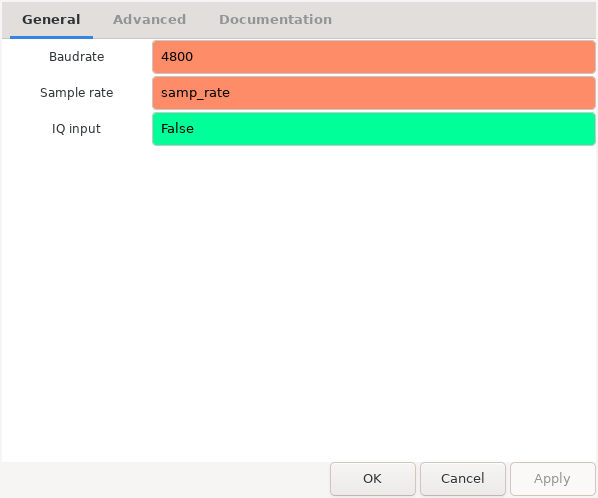
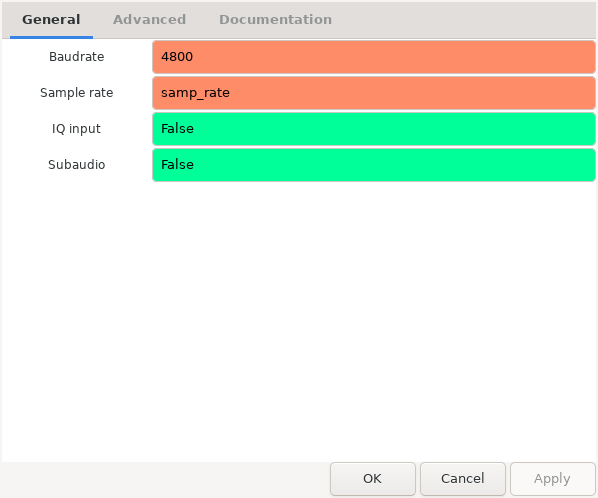
Add subaudio demodulation for LilacSat-2

Changed region(s): [[0.2408, 0.2711, 1.0, 0.3916], [0.0903, 0.3012, 0.1806, 0.3614]]

diff --git a/python/components/demodulators/fsk_demodulator.py b/python/components/demodulators/fsk_demodulator.py
@@ -30,10 +30,12 @@ class fsk_demodulator(gr.hier_block2, options_block):
         sample_rate: Sample rate in samples per second (float)
         iq: Whether the input is IQ or real (bool)
         deviation: Deviation in Hz, negative inverts sidebands (float)
+        subaudio: Use subaudio demodulation (bool)
         dump_path: Path to dump internal signals to files (str)
         options: Options from argparse
     """
-    def __init__(self, baudrate, samp_rate, iq, deviation = None, dump_path = None, options = None):
+    def __init__(self, baudrate, samp_rate, iq, deviation = None, subaudio = False,
+                     dump_path = None, options = None):
         gr.hier_block2.__init__(self, "fsk_demodulator",
             gr.io_signature(1, 1, gr.sizeof_gr_complex if iq else gr.sizeof_float),
             gr.io_signature(1, 1, gr.sizeof_float))
@@ -62,6 +64,13 @@ class fsk_demodulator(gr.hier_block2, options_block):
             decimation = 1
         sps /= decimation
 
+        if subaudio:
+            # some not-so-bad filter parameters for subaudio processing
+            subaudio_cutoff = 2.0/3.0 * baudrate
+            subaudio_transition = subaudio_cutoff / 4.0
+            subaudio_taps = firdes.low_pass(1, samp_rate, subaudio_cutoff, subaudio_transition)
+            self.subaudio_lowpass = filter.fir_filter_fff(1, subaudio_taps)
+        
         # square pulse filter
         sqfilter_len = int(samp_rate / baudrate)
         taps = np.ones(sqfilter_len)/sqfilter_len
@@ -97,8 +106,11 @@ class fsk_demodulator(gr.hier_block2, options_block):
             self.connect((self.clock_recovery, 1), self.clock_recovery_err)
             self.connect((self.clock_recovery, 2), self.clock_recovery_T_inst)
             self.connect((self.clock_recovery, 3), self.clock_recovery_T_avg)
-        
-        self.connect(self.demod, self.lowpass, self.dcblock)
+
+        if subaudio:
+            self.connect(self.demod, self.subaudio_lowpass, self.lowpass, self.dcblock)
+        else:
+            self.connect(self.demod, self.lowpass, self.dcblock)
         if use_agc:
             self.connect(self.dcblock, self.agc, self.clock_recovery)
             if dump_path is not None:

diff --git a/python/satyaml/satyaml.py b/python/satyaml/satyaml.py
@@ -21,7 +21,7 @@ class SatYAML:
     def __init__(self, path = _default_path):
         self._path = pathlib.Path(path)
 
-    modulations = ['AFSK', 'FSK', 'BPSK', 'BPSK Manchester', 'DBPSK', 'DBPSK Manchester']
+    modulations = ['AFSK', 'FSK', 'BPSK', 'BPSK Manchester', 'DBPSK', 'DBPSK Manchester', 'FSK subaudio']
     framings = ['AX.25', 'AX.25 G3RUH', 'AX100 ASM+Golay', 'AX100 Reed Solomon',\
                 '3CAT-1', 'Astrocast FX.25 NRZ-I', 'Astrocast FX.25 NRZ', 'Astrocast 9k6',\
                 'AO-40 FEC', 'AO-40 FEC short', 'AO-40 uncoded', 'TT-64', 'ESEO', 'Lucky-7',\

diff --git a/python/core/gr_satellites_flowgraph.py b/python/core/gr_satellites_flowgraph.py
@@ -235,6 +235,7 @@ class gr_satellites_flowgraph(gr.hier_block2):
         'BPSK Manchester' : set_options(demodulators.bpsk_demodulator, manchester = True),
         'DBPSK' : set_options(demodulators.bpsk_demodulator, differential = True),
         'DBPSK Manchester' : set_options(demodulators.bpsk_demodulator, differential = True, manchester = True),
+        'FSK subaudio' : set_options(demodulators.fsk_demodulator, subaudio = True),
     }
     _deframer_hooks = {
         'AX.25' : set_options(deframers.ax25_deframer, g3ruh_scrambler = False),

diff --git a/docs/source/components.rst b/docs/source/components.rst
@@ -157,7 +157,9 @@ The figure below shows the options allowed by the FSK demodulator block. The
 Baudrate option is used to set the baudrate in symbols per second. The Sample
 rate option specifies the sample rate of the input. The IQ input option enables
 IQ (complex) input. The signal is expected to be centred at baseband (0Hz) when
-IQ input is selected.
+IQ input is selected. The Subaudio option enables subaudio demodulation, which
+is intended for subaudio telemetry under FM voice and includes an additional
+lowpass filter to filter out the voice.
     
 .. figure:: images/bpsk_demodulator_options.png
     :alt: Options of FSK demodulator

diff --git a/docs/source/satyaml.rst b/docs/source/satyaml.rst
@@ -86,8 +86,12 @@ The modulations allowed in the ``modulation`` field are the following:
 
 * ``AFSK``, for which the :ref:`AFSK demodulator` is used
 
-* ``FSK``, for which the :ref:`FSK demodulator` is used
+* ``FSK``, for which the :ref:`FSK demodulator` with Subaudio set to ``False``
+  is used
 
+* ``FSK subaudio``, for which the :ref:`FSK demodulator` with Subaudio set to
+  ``True`` is used
+  
 * ``BPSK``. Coherent BPSK, for which the :ref:`BPSK demodulator` with
   Differential and Manchester set to ``False`` is used
 

diff --git a/docs/source/supported_satellites.rst b/docs/source/supported_satellites.rst
@@ -580,6 +580,7 @@ The list is auto-generated by reading the SatYAML files and using the script ``d
 
     * **9k6 BPSK downlink** (437.200 MHz): BPSK modulation with CCSDS Concatenated differential framing
     * **4k8 FSK downlink** (437.225 MHz): FSK modulation with CCSDS Concatenated framing
+    * **300baud subaudio downlink** (437.200 MHz): FSK subaudio modulation with CCSDS Concatenated framing
 
 **LITUANICASAT-2**
   NORAD ID: 42768
